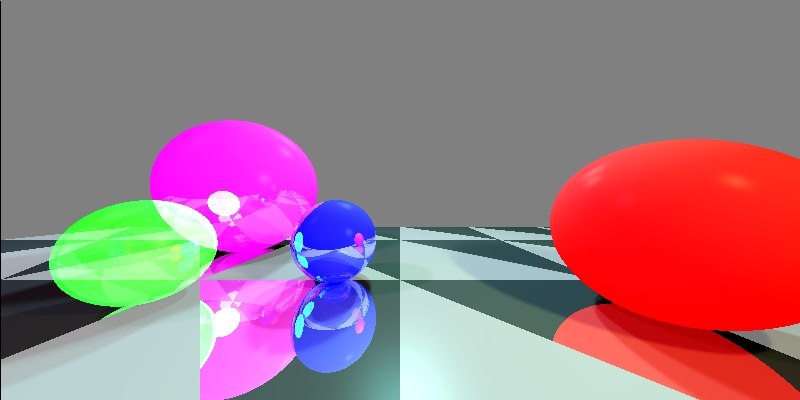
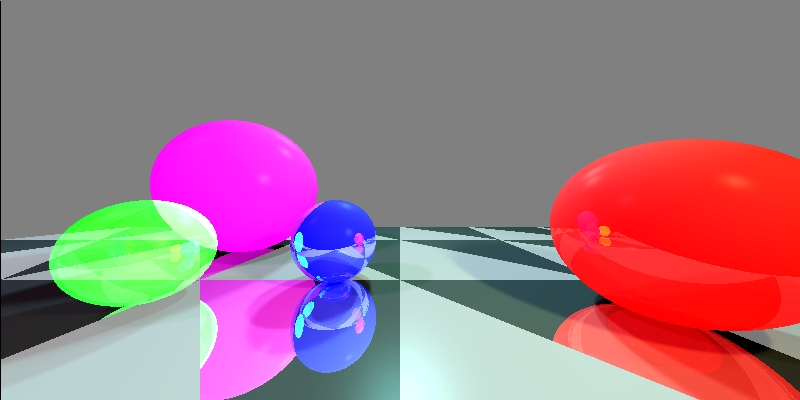
26/06/2020 Mini project1

diff --git a/src/renderer/Render.java b/src/renderer/Render.java
@@ -22,7 +22,7 @@ import java.util.concurrent.ThreadLocalRandom;
 public class Render {
     private static final int MAX_CALC_COLOR_LEVEL = 10;
     private static final double MIN_CALC_COLOR_K = 0.001;
-    private static final boolean SOFT_SHADOW_ACTIVE = false;
+    private static final boolean SOFT_SHADOW_ACTIVE = true;
     private static final int SOFT_SHADOW_SIZE_RAYS = 50;
     private static final double SOFT_SHADOW_RADIUS = 0.05;
     private final ImageWriter _imageWriter;
@@ -511,11 +511,14 @@ public class Render {
 //    }
 
     /**
+     * calculate the average transparency of the list of ray
+     * we received from the transparencyGetListOfRay method
+     *
      * @param l
      * @param n
      * @param gp
      * @param lightSource
-     * @return
+     * @return a double of the transparency
      */
     private double transparency(LightSource lightSource, Vector l, Vector n, GeoPoint gp) {
         double ktr = 0.0;
@@ -527,11 +530,12 @@ public class Render {
     }
 
     /**
+     * create a list of ray in order to calculate the transparency
      * @param l
      * @param n
      * @param gp
      * @param lightSource
-     * @return
+     * @return the List of Rays
      */
     private List<Ray> transparencyGetListOfRay(Vector l, Vector n, GeoPoint gp, LightSource lightSource) {
         Vector lightDirection = l.scale(-1); // from point to light source
@@ -546,6 +550,8 @@ public class Render {
             double x0 = p0.get_x().get();
             double y0 = p0.get_y().get();
             double z0 = p0.get_z().get();
+            // now, calculate 2 orthogonal vectors to create a circle
+            // as it was explained on the chiour
             Vector vX;
             if (x0 <= y0 && x0 <= z0) {
                 vX = (new Vector(0.0D, -z0, y0)).normalize();
@@ -557,10 +563,11 @@ public class Render {
                 vX = (new Vector(y0, -x0, 0.0D)).normalize();
             }
             Vector vY = v.crossProduct(vX).normalize();
+            //pc in on the center of our virtual circle
             Point3D pc = p0.add(v);
             while (counter > 0) {
-                double xFactor = ThreadLocalRandom.current().nextDouble(-1.0D, 1.0D);
-                double yFactor = Math.sqrt(1.0D - xFactor * xFactor);
+                double xFactor = ThreadLocalRandom.current().nextDouble(-1.0D, 1.0D);//cos
+                double yFactor = Math.sqrt(1.0D - xFactor * xFactor);//sin
                 double scale;
                 for (scale = 0.0D; isZero(scale); scale = ThreadLocalRandom.current().nextDouble(-SOFT_SHADOW_RADIUS, SOFT_SHADOW_RADIUS))
                     ;
@@ -570,7 +577,6 @@ public class Render {
                 if (!isZero(xFactor)) {
                     p = p.add(vX.scale(xFactor));
                 }
-
                 if (!isZero(yFactor)) {
                     p = p.add(vY.scale(yFactor));
                 }
@@ -585,6 +591,7 @@ public class Render {
     }
 
     /**
+     * calculate the transparency ray
      * @param ray
      * @param gp
      * @param lightSource

diff --git a/src/Main.java b/src/Main.java
@@ -119,7 +119,7 @@ public final class Main {
                         new Point3D(500, -500, 0),
                         new Vector(-1, 1, 1), 1, 1E-5, 1.5E-7));
 
-        ImageWriter imageWriter = new ImageWriter("MiniProject2", 400, 200, 800, 400);
+        ImageWriter imageWriter = new ImageWriter("MiniProject1", 400, 200, 800, 400);
         Render render = new Render(imageWriter, scene)
                 //.setSupersamplingDensity(0.5)
                 //.setRayCounter(25)

diff --git a/src/geometries/Cylinder.java b/src/geometries/Cylinder.java
@@ -41,7 +41,6 @@ public class Cylinder extends Tube {
     /**
      * @param point point to calculate the normal
      * @return normal
-     * @author Dan Zilberstein
      */
     @Override
     public Vector getNormal(Point3D point) {
